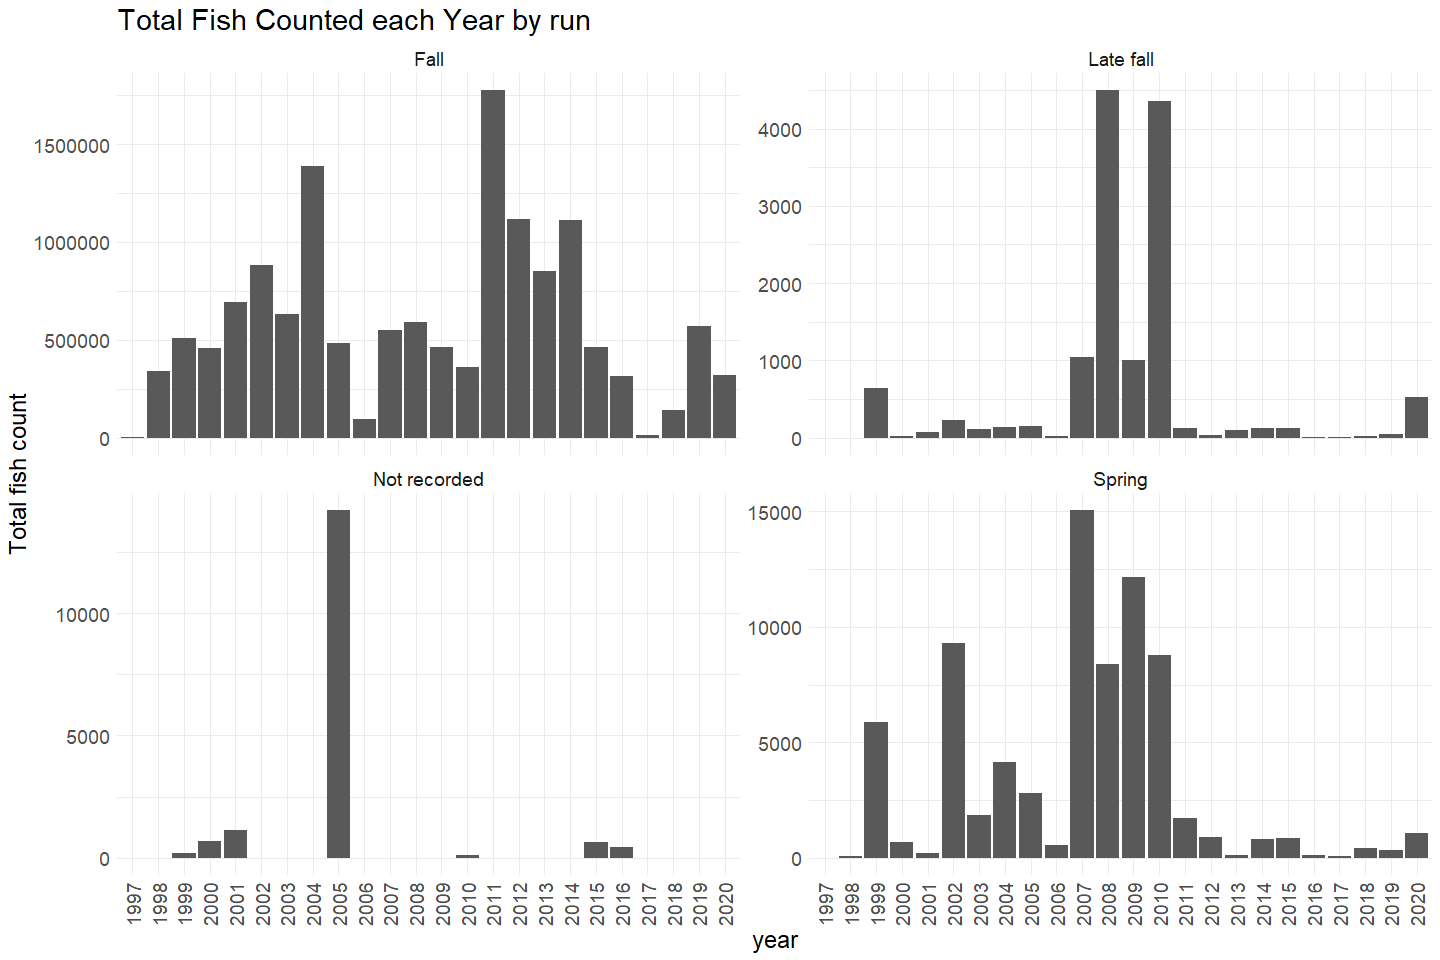
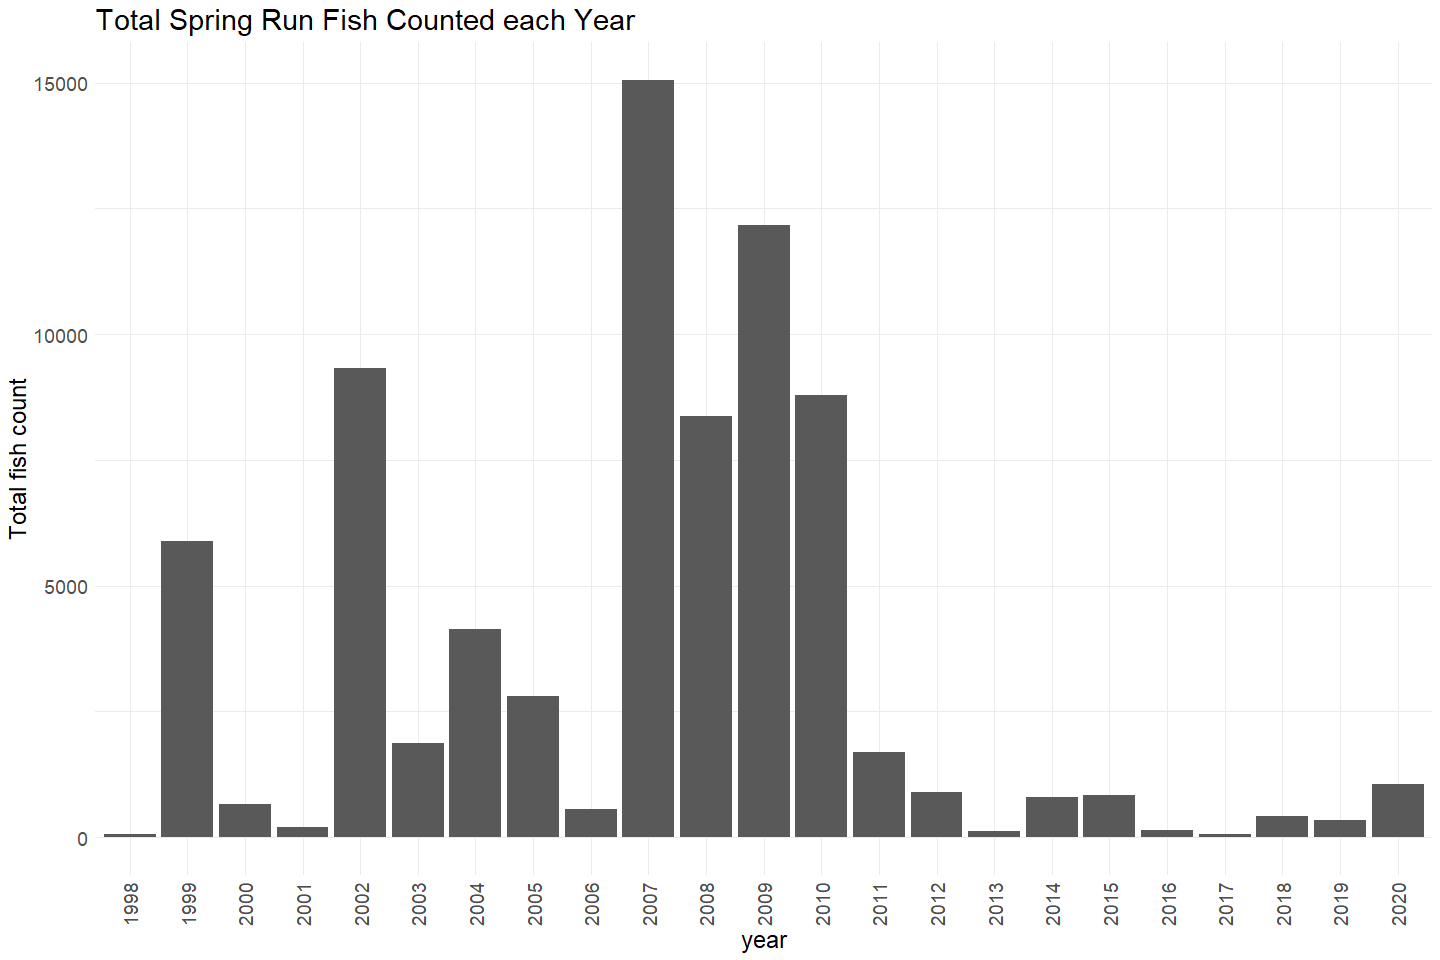
feather river rst markdown review

diff --git a/scripts/rst/feather-river/feather-rst.md b/scripts/rst/feather-river/feather-rst.md
@@ -145,6 +145,40 @@ cleaner_catch_data %>% glimpse()
     ## $ fork_length <dbl> NA, 30, 32, 33, 34, 35, 38, 29, 37, 36, 31, 34, 33, 31, 35~
     ## $ count       <dbl> 65, 2, 6, 8, 16, 10, 1, 1, 2, 2, 2, 19, 10, 2, 9, 7, 1, 1,~
 
+## Data Dictionary
+
+The following table describes the variables included in this dataset and
+the percent that do not include data.
+
+``` r
+percent_na <- cleaner_catch_data %>%
+  summarise_all(list(name = ~sum(is.na(.))/length(.))) %>%
+  pivot_longer(cols = everything())
+  
+data_dictionary <- tibble(variables = colnames(cleaner_catch_data),
+                          description = c("Date",
+                                          "Site",
+                                          "Run of the fish",
+                                          "Lifestage of the fish",
+                                          "Fork length of the fish caught",
+                                          "Count"
+                                          ),
+                          
+                          percent_na = round(percent_na$value*100)
+                          
+)
+knitr::kable(data_dictionary)
+```
+
+| variables    | description                    | percent\_na |
+|:-------------|:-------------------------------|------------:|
+| date         | Date                           |           0 |
+| site\_name   | Site                           |           0 |
+| run          | Run of the fish                |           0 |
+| lifestage    | Lifestage of the fish          |           0 |
+| fork\_length | Fork length of the fish caught |           5 |
+| count        | Count                          |           0 |
+
 ## Explore Numeric Variables:
 
 ``` r
@@ -217,6 +251,7 @@ summary(cleaner_catch_data$fork_length)
 
 ``` r
 cleaner_catch_data %>% 
+  filter(run == "Spring") %>% 
   group_by(date) %>%
   summarise(total_daily_catch = sum(count)) %>%
   filter(year(date) > 2014, year(date) < 2021) %>%
@@ -233,7 +268,7 @@ cleaner_catch_data %>%
   theme(text = element_text(size = 18),
         axis.text.x = element_text(angle = 90, vjust = 0.5, hjust=1),
         legend.position = "bottom") + 
-  labs(title = "Total Daily Raw Passage 2015 - 2020",
+  labs(title = "Total Spring Run Daily Raw Passage 2015 - 2020",
        y = "Total daily catch",
        x = "Date")+ 
   facet_wrap(~water_year, scales = "free") + 
@@ -247,18 +282,22 @@ cleaner_catch_data %>%
 ``` r
 cleaner_catch_data  %>%
   filter(year(date) < 2021) %>% 
+  filter(run == "Spring") %>% 
   mutate(year = as.factor(year(date))) %>%
   ggplot(aes(x = year, y = count)) + 
   geom_col() + 
   theme_minimal() +
-  labs(title = "Total Fish Counted each Year by run",
+  labs(title = "Total Spring Run Fish Counted each Year",
        y = "Total fish count") + 
   theme(text = element_text(size = 18),
-        axis.text.x = element_text(angle = 90, vjust = 0.5, hjust=1)) + 
-  facet_wrap(~run, scales = "free_y")
+        axis.text.x = element_text(angle = 90, vjust = 0.5, hjust=1))
 ```
 
 ![](feather-rst_files/figure-gfm/unnamed-chunk-12-1.png)<!-- -->
+
+``` r
+  # facet_wrap(~run, scales = "free_y")
+```
 
 The majority of “Not recorded” run values occur in 2015. 28.3502636 % of
 the values in 2005 are “Not recorded”.
@@ -317,7 +356,7 @@ table(cleaner_catch_data$site_name)
 
 -   0 % of values in the `site_name` column are NA.
 
-### Variable: \`run\`\`
+### Variable: `run`
 
 ``` r
 table(cleaner_catch_data$run) 
@@ -371,6 +410,10 @@ feather_rst <- cleaner_catch_data %>% glimpse()
     ## $ lifestage   <chr> NA, "parr", "parr", "parr", "parr", "parr", "parr", "parr"~
     ## $ fork_length <dbl> NA, 30, 32, 33, 34, 35, 38, 29, 37, 36, 31, 34, 33, 31, 35~
     ## $ count       <dbl> 65, 2, 6, 8, 16, 10, 1, 1, 2, 2, 2, 19, 10, 2, 9, 7, 1, 1,~
+
+### Next Step
+
+-   Find ways to generate passage estimates
 
 ### Save cleaned data back to google cloud
 
